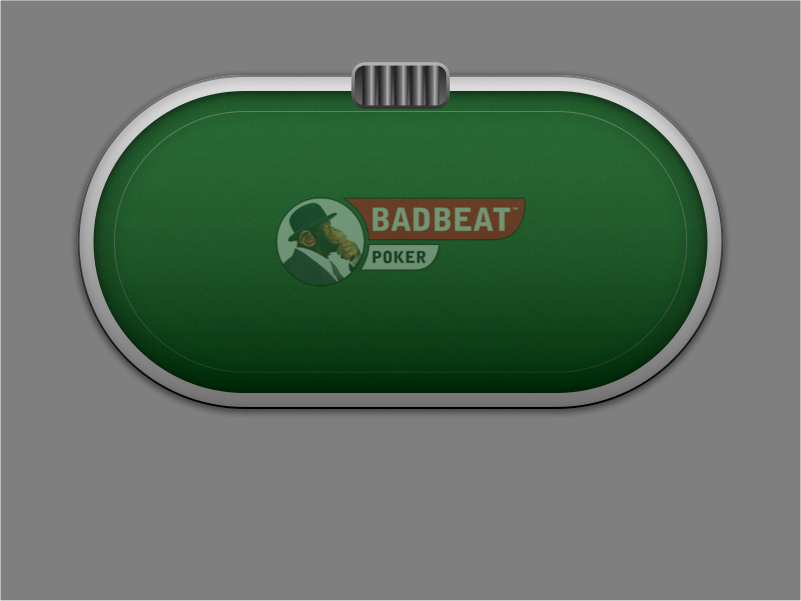
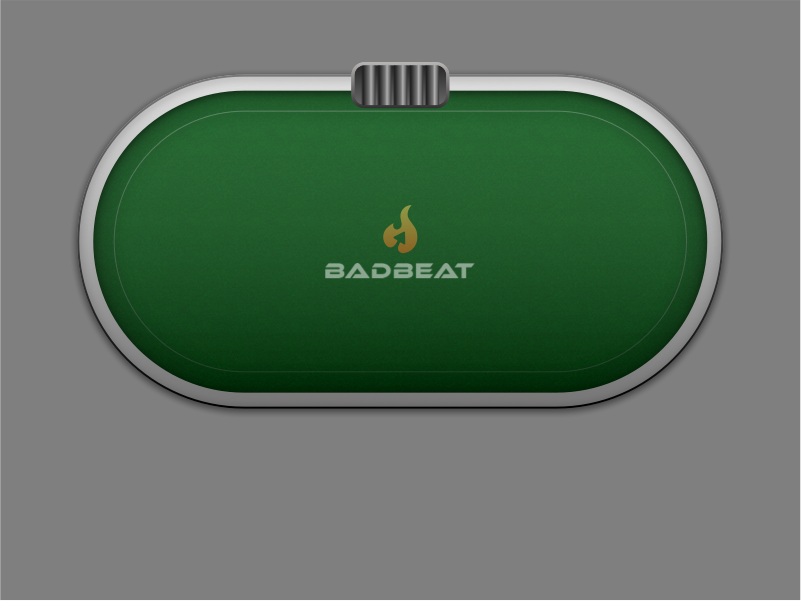
background changes and adding number of players

diff --git a/poker.engine/src/ApiEndpoints.ts b/poker.engine/src/ApiEndpoints.ts
@@ -19,10 +19,12 @@ import fs = require('fs');
 import { AdminSecureSocketService, IConnectionToPaymentServer } from './admin/AdminSecureSocketService';
 import { BlockCypherPaymentEvent } from "./admin/model/outgoing/BlockCypherPaymentEvent";
 import { GameServerProcessor } from "./admin/processor/GameServerProcessor";
-import { getUserData } from "./helpers";
+import { getUserData,getTableViewRow } from "./helpers";
 import {SaveUserEmail } from './model/SaveUserEmail'
 import { DbGameResults } from './model/table/DbGameResults';
 import { RewardsDetails } from './model/table/RewardsDetails';
+import { IPokerTableProvider } from "./services/IBroadcastService";
+import {Table} from './table'
 // import {  Db  } from 'mongodb';
 export class ApiEndpoints {
 
@@ -132,21 +134,24 @@ export class ApiEndpoints {
         });
 
         app.get('/api/tables', async (req:any, res:any) => {
-            let arr:TableConfig[] = [];
-            if(req.query.tournamentId){
-              let states = await this.dataRepository.getTableStates({ tournamentId:req.query.tournamentId });
-              let count = 0;
-              for(let state of states){
-                count++;
-                let config = new TableConfig();
-                config._id = state._id+'';
-                config.name = `Table ${count}`;
-                arr.push(config)
-              }
-            }else{
-              arr = await this.dataRepository.getTablesConfig();
-            }
-            res.send(arr);
+            // let arr:TableConfig[] = [];
+            // if(req.query.tournamentId){
+            //   let states = await this.dataRepository.getTableStates({ tournamentId:req.query.tournamentId });
+            //   let count = 0;
+            //   for(let state of states){
+            //     count++;
+            //     let config = new TableConfig();
+            //     config._id = state._id+'';
+            //     config.name = `Table ${count}`;
+            //     arr.push(config)
+            //   }
+            // }else{
+            //   arr = await this.dataRepository.getTablesConfig();
+            // }
+            let tableList  = await pokerProcessor.getTables().map(getTableViewRow);
+            console.log(tableList);
+            
+            res.send(tableList);
           });    
       
 
